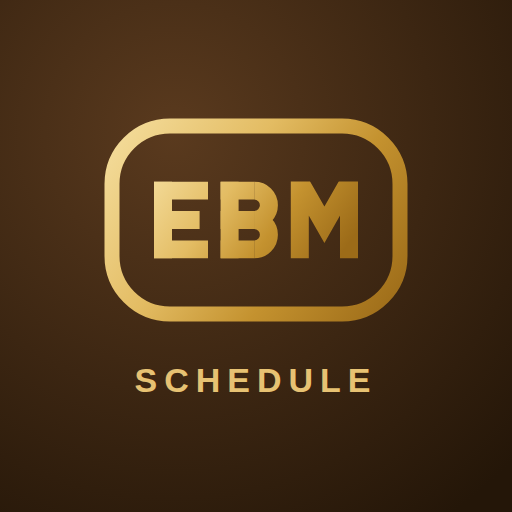
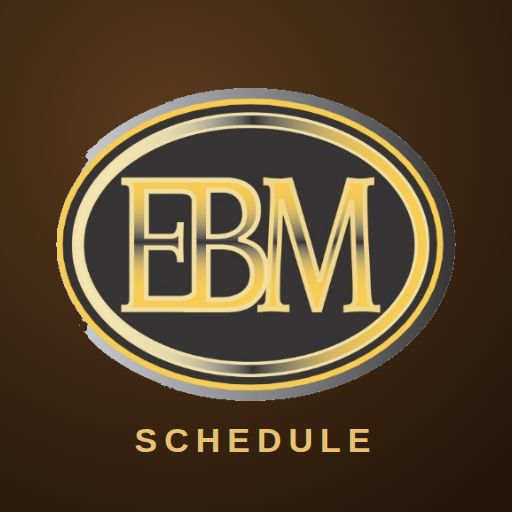
Use the company's own mark, and give the status bar a badge it can draw
The icons were a drawn approximation of the EBM oval; they are now cut
from the logo itself, so the app wears the real mark. The wordmark beside
it is unreadable at icon size, so only the symbol is used, and the
maskable icon drops the SCHEDULE line and pulls the oval in — Android
crops that one to a circle.

The notification badge was the full-colour icon. Android keeps only a
badge's alpha channel, so an opaque square arrived as a solid white
block. It is now the EBM letters cut out of nothing.

The service worker was also showing every job a second time: the SDK
already puts anything with a notification block on screen, and the extra
copy came up under a different tag, so neither replaced the other.

Claude-Session: https://claude.ai/code/session_01B4oWUcd8ykBAuVqGe87z5m

diff --git a/brand/logo.html b/brand/logo.html
@@ -2,54 +2,37 @@
   html,body{margin:0;padding:0;background:transparent}
   svg{display:block;width:100vw;height:100vh}
 </style>
+<!-- The app icon: the real EBM oval on the company brown. The symbol is the
+     one from the letterhead (brand/symbol.png), cropped out of the full
+     logo — the words beside it are unreadable at icon size, so only the mark
+     is used. Add ?plain=1 to the URL for the maskable version, which drops
+     the wordmark and pulls the oval in, because Android crops a maskable
+     icon to a circle and eats anything near the edge. -->
 <svg viewBox="0 0 512 512" xmlns="http://www.w3.org/2000/svg">
   <defs>
     <radialGradient id="ground" cx="34%" cy="26%" r="92%">
-      <stop offset="0%"  stop-color="#5A3A1E"/>
-      <stop offset="55%" stop-color="#3C2612"/>
+      <stop offset="0%"   stop-color="#5A3A1E"/>
+      <stop offset="55%"  stop-color="#3C2612"/>
       <stop offset="100%" stop-color="#241608"/>
     </radialGradient>
-    <!-- userSpaceOnUse: a straight stroke has a zero-area bounding box, and a
-         bounding-box gradient on one of those renders nothing at all. -->
-    <linearGradient id="gold" gradientUnits="userSpaceOnUse" x1="120" y1="110" x2="400" y2="310">
-      <stop offset="0%"   stop-color="#F5DE9E"/>
-      <stop offset="38%"  stop-color="#E3BC63"/>
-      <stop offset="66%"  stop-color="#C4922F"/>
-      <stop offset="100%" stop-color="#9C6B18"/>
-    </linearGradient>
-    <!-- Mitred joins on the M overshoot the cap height; clipping to the cap
-         line flattens them instead of leaving spikes or notches. -->
-    <clipPath id="capline"><rect x="0" y="192" width="512" height="128"/></clipPath>
   </defs>
 
   <rect width="512" height="512" fill="url(#ground)"/>
 
-  <!-- the badge from the EBM mark -->
-  <rect x="112" y="126" width="288" height="188" rx="58" ry="58"
-        fill="none" stroke="url(#gold)" stroke-width="15"/>
+  <!-- 451x353 in its own pixels, so the height follows from the width -->
+  <image id="mark" href="symbol.png" x="56" y="88" width="400" height="313"/>
 
-  <!-- EBM, drawn as geometry so it needs no font, scaled into the badge -->
-  <g transform="translate(256 220) scale(0.60) translate(-256 -256)">
-    <g clip-path="url(#capline)" fill="none" stroke="url(#gold)" stroke-width="30"
-       stroke-linecap="butt" stroke-linejoin="miter">
-      <!-- E -->
-      <path d="M101 192 V320"/>
-      <path d="M86 207 H176"/>
-      <path d="M86 256 H162"/>
-      <path d="M86 305 H176"/>
-      <!-- B -->
-      <path d="M212 192 V320"/>
-      <path d="M197 207 H253"/>
-      <path d="M197 256 H253"/>
-      <path d="M197 305 H253"/>
-      <path d="M253 207 a24.5 24.5 0 0 1 0 49"/>
-      <path d="M253 256 a24.5 24.5 0 0 1 0 49"/>
-      <!-- M as one path, so the joins are mitred instead of notched -->
-      <path d="M329 320 L329 192 L370 264 L411 192 L411 320"/>
-    </g>
-  </g>
-
-  <text x="256" y="392" text-anchor="middle"
+  <text id="word" x="256" y="452" text-anchor="middle"
         font-family="Liberation Sans, Arial, sans-serif" font-weight="700"
         font-size="34" letter-spacing="7" fill="#E7C273">SCHEDULE</text>
 </svg>
+<script>
+  // The maskable icon has to survive a circular crop: no wordmark, and the
+  // oval sits inside the middle 80% that Android promises not to cut.
+  if (location.search.indexOf("plain=1") >= 0) {
+    document.getElementById("word").remove();
+    var m = document.getElementById("mark");
+    m.setAttribute("x", 96); m.setAttribute("y", 131);
+    m.setAttribute("width", 320); m.setAttribute("height", 250);
+  }
+</script>

diff --git a/sw.js b/sw.js
@@ -1,10 +1,11 @@
 /* EBM Crew Calendar service worker.
    Bump CACHE when the app shell changes so phones pick up the new version. */
-var CACHE = "ebm-crew-v40";
+var CACHE = "ebm-crew-v41";
 var SHELL = [
   "./", "./index.html", "./config.js", "./projects.js",
   "./manifest.webmanifest",
-  "./icons/icon-192.png", "./icons/icon-512.png", "./icons/apple-touch-icon.png"
+  "./icons/icon-192.png", "./icons/icon-512.png", "./icons/apple-touch-icon.png",
+  "./icons/maskable-512.png", "./icons/badge-96.png"
 ];
 
 self.addEventListener("install", function(e){
@@ -56,12 +57,16 @@ try {
     importScripts("https://www.gstatic.com/firebasejs/10.12.5/firebase-messaging-compat.js");
     firebase.initializeApp(FB);
     firebase.messaging().onBackgroundMessage(function(payload){
-      var n = payload.notification || {};
-      self.registration.showNotification(n.title || "New job", {
-        body: n.body || "",
+      // Anything carrying a notification block has already been put on screen
+      // by the SDK itself. Showing it again here was posting every job twice,
+      // under two different tags, so neither one replaced the other.
+      if (payload && payload.notification) return;
+      var d = (payload && payload.data) || {};
+      self.registration.showNotification(d.title || "New job", {
+        body: d.body || "",
         icon: "./icons/icon-192.png",
-        badge: "./icons/icon-192.png",
-        tag: (payload.data && payload.data.tag) || "ebm-job"
+        badge: "./icons/badge-96.png",
+        tag: d.tag || "ebm-job"
       });
     });
   }

diff --git a/brand/badge.html b/brand/badge.html
@@ -1,0 +1,31 @@
+<style>
+  html,body{margin:0;padding:0;background:transparent}
+  svg{display:block;width:100vw;height:100vh}
+</style>
+<!-- The small icon Android puts in the status bar. Android throws the colours
+     away and keeps only the alpha channel, so this must be the mark drawn in
+     solid white on nothing at all: a filled square comes out as a white block,
+     which is exactly what the colour icon was doing. No frame either — at
+     status-bar size the badge outline closes up into a smudge. -->
+<svg viewBox="0 0 512 512" xmlns="http://www.w3.org/2000/svg">
+  <defs>
+    <clipPath id="capline"><rect x="0" y="192" width="512" height="128"/></clipPath>
+  </defs>
+  <!-- EBM from the logo, blown up to fill the canvas edge to edge -->
+  <g transform="translate(256 256) scale(1.33) translate(-248.5 -256)">
+    <g clip-path="url(#capline)" fill="none" stroke="#fff" stroke-width="30"
+       stroke-linecap="butt" stroke-linejoin="miter">
+      <path d="M101 192 V320"/>
+      <path d="M86 207 H176"/>
+      <path d="M86 256 H162"/>
+      <path d="M86 305 H176"/>
+      <path d="M212 192 V320"/>
+      <path d="M197 207 H253"/>
+      <path d="M197 256 H253"/>
+      <path d="M197 305 H253"/>
+      <path d="M253 207 a24.5 24.5 0 0 1 0 49"/>
+      <path d="M253 256 a24.5 24.5 0 0 1 0 49"/>
+      <path d="M329 320 L329 192 L370 264 L411 192 L411 320"/>
+    </g>
+  </g>
+</svg>

diff --git a/index.html b/index.html
@@ -1411,7 +1411,7 @@ dialog::backdrop{background:rgba(10,18,22,.5)}
     navigator.serviceWorker.ready.then(function(reg){
       return reg.showNotification("EBM Crew \u2014 test", {
         body: "If you can see this, this phone can buzz for " + meName() + ".",
-        icon: "icons/icon-192.png", badge: "icons/icon-192.png", tag: "ebm-test"
+        icon: "icons/icon-192.png", badge: "icons/badge-96.png", tag: "ebm-test"
       });
     }).then(function(){
       b.textContent = "Sent \u2014 check your notifications";
@@ -1837,7 +1837,10 @@ dialog::backdrop{background:rgba(10,18,22,.5)}
         firebase.messaging().onMessage(function(payload){
           var n = (payload && payload.notification) || {};
           try{
-            new Notification(n.title || "New job", {body: n.body || "", icon: "icons/icon-192.png"});
+            new Notification(n.title || "New job", {
+              body: n.body || "", icon: "icons/icon-192.png",
+              badge: "icons/badge-96.png", tag: "ebm-job"
+            });
           }catch(e){}
         });
       });

diff --git a/functions/index.js b/functions/index.js
@@ -51,7 +51,10 @@ async function push(db, map, tokens, title, body, tag) {
     webpush: {
       notification: {
         icon: "/ebm-employee-celander/icons/icon-192.png",
-        badge: "/ebm-employee-celander/icons/icon-192.png",
+        // Android throws the badge's colours away and keeps the alpha, so a
+        // full-colour square arrives as a solid white block. This one is the
+        // EBM mark cut out of nothing.
+        badge: "/ebm-employee-celander/icons/badge-96.png",
         tag,
       },
       fcmOptions: {link: "https://shlomestern.github.io/ebm-employee-celander/"},

diff --git a/brand/render-icons.py b/brand/render-icons.py
@@ -1,13 +1,35 @@
+"""Renders every icon the app ships from brand/logo.html and brand/badge.html.
+
+    python3 brand/render-icons.py
+
+Chromium is used rather than an SVG library so the gradients, the embedded
+symbol and the text come out exactly as a browser draws them.
+"""
 from playwright.sync_api import sync_playwright
-CHROME="/opt/pw-browsers/chromium-1194/chrome-linux/chrome"
-OUT="/home/user/ebm-employee-Celander-/icons/"
+
+CHROME = "/opt/pw-browsers/chromium-1194/chrome-linux/chrome"
+BRAND = "file:///home/user/ebm-employee-Celander-/brand/"
+OUT = "/home/user/ebm-employee-Celander-/icons/"
+
+# page, query, output, size, transparent background
+JOBS = [
+    ("logo.html",  "",         "icon-512.png",        512, False),
+    ("logo.html",  "",         "icon-192.png",        192, False),
+    ("logo.html",  "",         "apple-touch-icon.png", 180, False),
+    ("logo.html",  "?plain=1", "maskable-512.png",    512, False),
+    # Android keeps only the alpha of the status-bar badge, so it is rendered
+    # on nothing: an opaque square would come out as a solid white block.
+    ("badge.html", "",         "badge-96.png",         96, True),
+]
+
 with sync_playwright() as pw:
-    b=pw.chromium.launch(executable_path=CHROME, args=["--no-sandbox"])
-    for name,size in (("icon-512.png",512),("icon-192.png",192),("apple-touch-icon.png",180)):
-        pg=b.new_context(viewport={"width":size,"height":size}, device_scale_factor=1).new_page()
-        pg.goto("file:///tmp/claude-0/-home-user-ebm-employee-Celander-/c7581457-89fb-5deb-9106-5acf240e9f2e/scratchpad/logo.html")
-        pg.wait_for_timeout(250)
-        pg.screenshot(path=OUT+name, omit_background=False)
+    b = pw.chromium.launch(executable_path=CHROME, args=["--no-sandbox"])
+    for page, query, name, size, clear in JOBS:
+        pg = b.new_context(viewport={"width": size, "height": size},
+                           device_scale_factor=1).new_page()
+        pg.goto(BRAND + page + query)
+        pg.wait_for_timeout(400)
+        pg.screenshot(path=OUT + name, omit_background=clear)
         print("wrote", name, size)
         pg.context.close()
     b.close()
